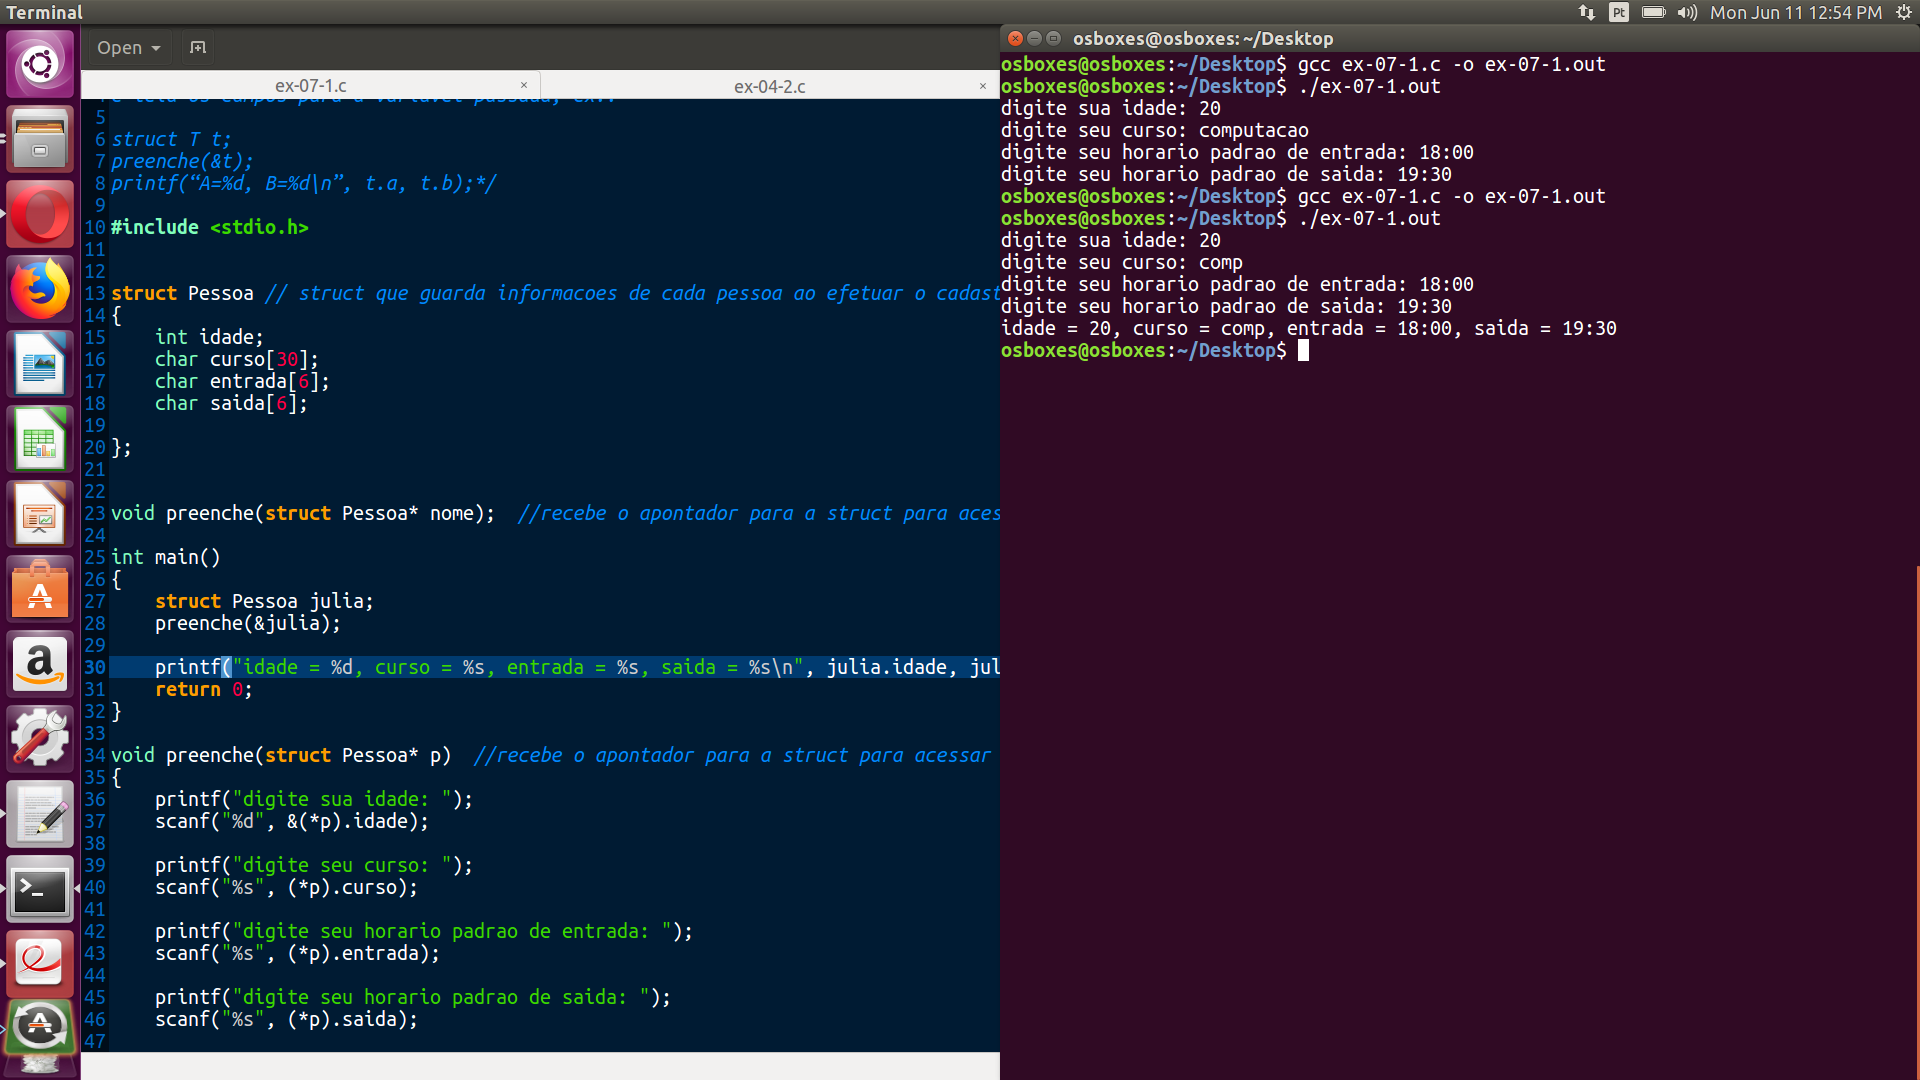
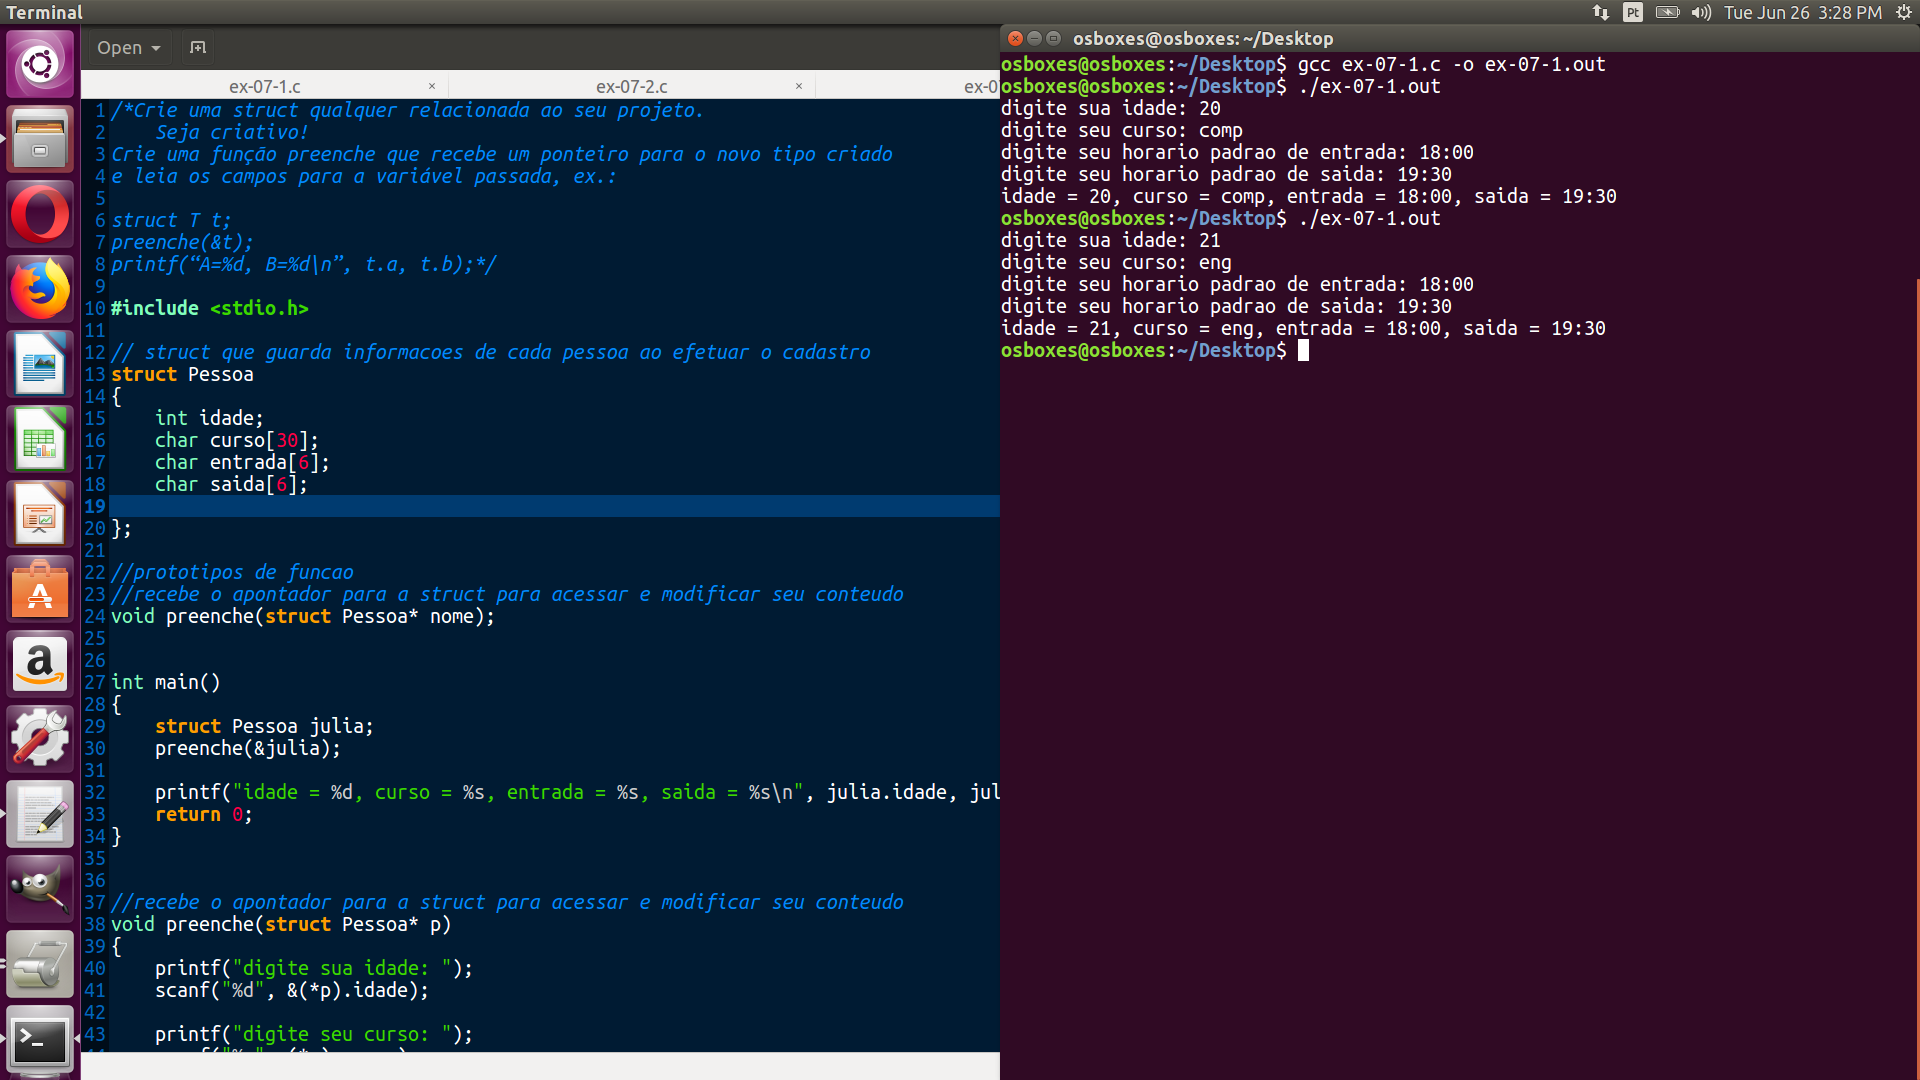
(+) ex-07

diff --git a/tipos-compostos/ex-07-3.c b/tipos-compostos/ex-07-3.c
@@ -1,44 +1,79 @@
+//FALTA O MAPA DO JOGO
+
+/*Um jogo possui 10 personagens, cada um com as seguintes características:
+ Um número que representa a sua “identidade”
+ Um posição (x,y) no espaço bi-dimensional
+ Uma quantidade de pontuação (inicialmente 0)
+
+* Crie uma struct para representar um personagem
+ A posição também deve ser uma struct
+ Crie um vetor com 10 personagens
+ 
+* Crie uma função que leia um personagem
+ A função deve usar uma função que lê a posição
+ Crie um loop para ler todos os 10 personagens
+ 
+* Desenhe um mapa do jogo, e.x.:
+ Use funções auxiliares! */
+ 
 #include <stdio.h>
 
-// prototipos
+#define TAM 3
 
-void le_Posicao();
-
-struct Personagem
-{
-	char imagem; //pediu para corrigir: substituir o char por int
-	struct Posicao ps[10]; //struct que guarda a posicao do personagem
-	int pontuacao;
-}
-
+// definicoes de structs
 struct Posicao
 {
 	int x;
 	int y;
-}
+};
+
+struct Personagem
+{
+	int id;
+	struct Posicao pos;
+	int pontos;
+};
+
+// prototipos de funcoes
+void le_posicao(struct Posicao*);
+void le_personagem(struct Personagem* );
+
 
 int main()
 {
-	int i = 0;
-	//for(i = 0; i < 10; i++)
-	//{ 
-	//struct Personagem p[10];
-		le_posicao();
-		printf("%d", p[i].x);
-		printf("%d", p[i].y);
-	//}
-}
-/*
-void le_Personagem()
-{
+	//struct Posicao p1;
+	//le_posicao(&p1);
 	
+	struct Personagem vet[TAM];	
+	
+	int i;
+	for (i = 0; i < TAM; i++)
+	{
+		//printf("pontos[%d]: %d\n", i, vet[i].pontos);
+		le_personagem(&vet[i]);
+		printf("id[%d]: %d\n", i, vet[i].id);
+		printf("vet[%d].x: %d, ", i, vet[i].pos.x);
+		printf("vet[%d].y: %d\n", i, vet[i].pos.y);
+		printf("pontos[%d]: %d\n", i, vet[i].pontos);
+	}
+	
+	return 0;
+}
 
+ // funcao que preenche a struct posicao - recebe o end da struct - retorna vazio
+void le_posicao(struct Posicao* ploc1)
+{
+	scanf("%d", &(*ploc1).x);
+ 	scanf("%d", &(*ploc1).y);
 }
-*/
-void le_Posicao(int i; ) // recebe o ponteiro pra struct posicao
-{						 // recebe o i p indicar o num do elemento
-	struct Personagem ps[10];	
-	scanf("%d", p[i].x);
-	scanf("%d", p[i].y);
-		
+
+// funcao que preenche a struct personagem - recebe end do vetor de personagens e tamanho do vetor - retorna vazio
+void le_personagem( struct Personagem* ploc2)
+{
+	scanf("%d", &(*ploc2).id); 
+ 	le_posicao(&(*ploc2).pos);
+ 	scanf("%d", &(*ploc2).pontos);
 }
+
+
+

diff --git a/tipos-compostos/ex-07-2.c b/tipos-compostos/ex-07-2.c
@@ -4,3 +4,75 @@ Crie uma função preenche2 que recebe um ponteiro para o novo tipo criado e
 leia os campos para a variável passada.
 
 A função deve usar a preenche do exercício anterior.*/
+
+#include <stdio.h>
+
+
+// definicao de structs
+
+struct equipe
+{
+	char categoria[15]; // opcoes: sumo_3kg; sumo_lego; mini_sumo; seguidor_linha; beetleweight; 
+	char subsistema[12]; // opcoes: programacao; eletronica; potencia; mecanica;
+};
+
+struct Pessoa
+{
+	int idade;
+	char curso[30];
+	char entrada[5];
+	char saida[5];
+	struct equipe robot; // opcoes: robot; IEEE_RAS; IEEE_WIE; IEEE_PES; IEEE_CS
+};
+
+
+// prototipos de funcao
+void preenche(struct Pessoa* );
+void preenche2(struct Pessoa* );
+
+
+int main()
+{
+	struct Pessoa julia;
+	preenche2(&julia);
+	
+	printf(" idade: %d,\n curso: %s,\n entrada: %s,\n saida: %s,\n", julia.idade, julia.curso, julia.entrada, julia.saida);
+	printf(" categoria: %s,\n subsistema: %s\n", julia.robot.categoria, julia.robot.subsistema);
+
+}
+
+
+//funcao que preenche pessoa - recebe o apontador para a struct para acessar e modificar seu conteudo - retorna vazio
+void preenche(struct Pessoa* p)
+{
+	printf("digite sua idade: ");
+	scanf("%d", &(*p).idade);
+	//printf("%d\n", (*p).idade);
+	
+	printf("digite seu curso: ");
+	scanf("%s", (*p).curso);
+	//printf("%s\n", (*p).curso);
+	
+	printf("digite seu horario padrao de entrada: ");
+	scanf("%s", (*p).entrada);
+	//printf("%s\n", (*p).entrada);
+	
+	printf("digite seu horario padrao de saida: ");
+	scanf("%s", (*p).saida);
+	//printf("%s\n", (*p).saida);
+}
+
+//funcao que preenche pessoa - recebe o apontador para a struct para acessar e modificar seu conteudo - retorna vazio
+void preenche2(struct Pessoa* p1)
+{
+	preenche(&(*p1));
+	
+	printf("digite a categoria de robo que participa: ");
+	scanf("%s", (*p1).robot.categoria);
+	//printf("%s\n", (*p1).robot.categoria);
+
+	printf("digite o subsistema que participa: ");
+	scanf("%s", (*p1).robot.subsistema);
+	//printf("%s\n", (*p1).robot.subsistema);
+
+}

diff --git a/tipos-compostos/ex-07-1.c b/tipos-compostos/ex-07-1.c
@@ -9,8 +9,8 @@ printf(“A=%d, B=%d\n”, t.a, t.b);*/
 
 #include <stdio.h>
 
-
-struct Pessoa // struct que guarda informacoes de cada pessoa ao efetuar o cadastro
+// struct que guarda informacoes de cada pessoa ao efetuar o cadastro
+struct Pessoa 
 {
 	int idade;
 	char curso[30];
@@ -19,31 +19,34 @@ struct Pessoa // struct que guarda informacoes de cada pessoa ao efetuar o cadas
 
 };
 
+//prototipos de funcao
+//recebe o apontador para a struct para acessar e modificar seu conteudo
+void preenche(struct Pessoa* nome);  
 
-void preenche( struct Pessoa* );  //recebe o apontador para a struct para acessar e modificar seu conteudo
 
 int main()
 {
-	struct Pessoa Julia;
-	preenche(struct Pessoa* Julia);
+	struct Pessoa julia;
+	preenche(&julia);
 
+	printf("idade = %d, curso = %s, entrada = %s, saida = %s\n", julia.idade, julia.curso, julia.entrada, julia.saida);
 	return 0;
 }
 
-void preenche( struct Pessoa* Julia)  //recebe o apontador para a struct para acessar e modificar seu conteudo
+
+//recebe o apontador para a struct para acessar e modificar seu conteudo
+void preenche(struct Pessoa* p)
 {
 	printf("digite sua idade: ");
-	scanf("%d", (*Julia).idade);
+	scanf("%d", &(*p).idade);
 	
 	printf("digite seu curso: ");
-	scanf("%s", (*Julia).curso);
+	scanf("%s", (*p).curso);
 	
 	printf("digite seu horario padrao de entrada: ");
-	scanf("%s", (*Julia).entrada);
+	scanf("%s", (*p).entrada);
 	
 	printf("digite seu horario padrao de saida: ");
-	scanf("%s", (*Julia).saida);
+	scanf("%s", (*p).saida);
 
 }
-
-
